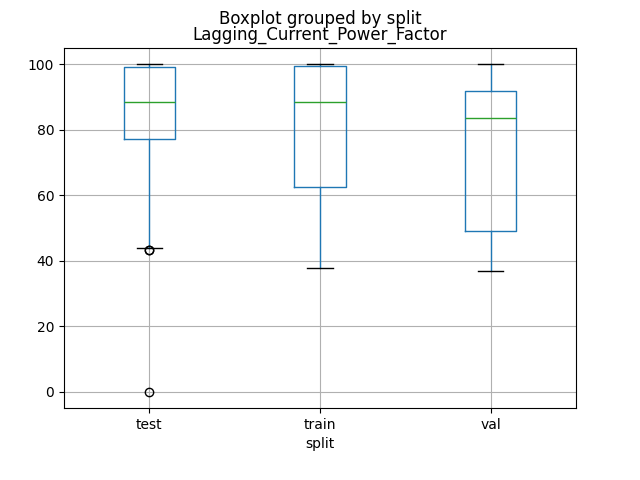
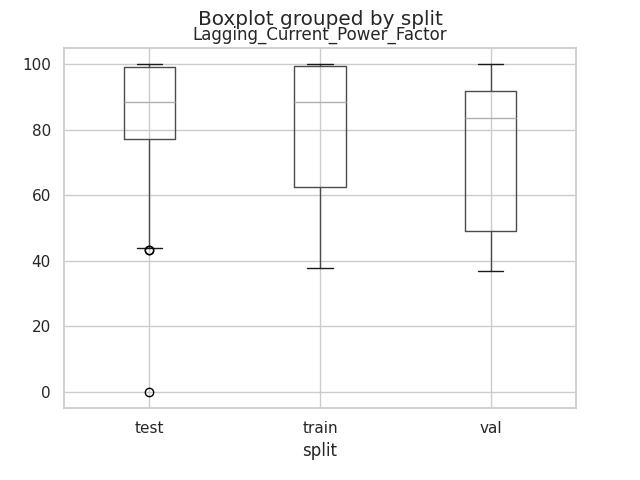
add: visualization .py Ahora hay graficas de todo JAJA matrices de confusión, roc comparativo, entre todos, y curva de aprendizaje de la red neuronal

diff --git a/src/evaluation/visualization.py b/src/evaluation/visualization.py
@@ -43,3 +43,114 @@ def graficar_matriz_confusion(y_true : np.ndarray,
 
     plt.savefig(ruta_archivo, dpi = DPI, bbox_inches = "tight")
     plt.close(fig)
+
+def graficar_curva_roc_multiclase(y_true: np.ndarray,
+                                  y_proba: np.ndarray,
+                                  nombres_clases: list[str],
+                                  titulo: str,
+                                  ruta_archivo: Path,
+                                 ) -> None:
+
+    clases = np.unique(y_true)
+    y_true_bin = label_binarize(y_true, classes=clases)
+
+    fig, ax = plt.subplots(figsize=FIGSIZE)
+
+    for i, nombre in enumerate(nombres_clases):
+        fpr, tpr, _ = roc_curve(y_true_bin[:, i], y_proba[:, i])
+        auc_clase = auc(fpr, tpr)
+        ax.plot(fpr, tpr, label=f"{nombre} (AUC = {auc_clase:.3f})")
+
+    ax.plot([0, 1], [0, 1], "k--", alpha=0.5, label="Aleatorio (AUC = 0.500)")
+
+    ax.set_xlabel("Tasa de Falsos Positivos")
+    ax.set_ylabel("Tasa de Verdaderos Positivos")
+    ax.set_title(titulo)
+    ax.legend(loc="lower right")
+    ax.set_xlim([0, 1])
+    ax.set_ylim([0, 1.02])
+    ax.grid(True, linestyle="--", alpha=0.6)
+
+    plt.tight_layout()
+    plt.savefig(ruta_archivo, dpi=300)
+    plt.close(fig)
+
+def graficar_curvas_aprendizaje(
+                                history: dict,
+                                ruta_archivo: Path,
+                                titulo: str = "Curvas de aprendizaje (MLP)",
+                                ) :
+    
+    fig, axes = plt.subplots(1, 2, figsize=(14, 5))
+
+    axes[0].plot(history["loss"], label="Train")
+    axes[0].plot(history["val_loss"], label="Validación")
+    axes[0].set_xlabel("Epoch")
+    axes[0].set_ylabel("Loss")
+    axes[0].set_title("Loss")
+    axes[0].grid(True, linestyle="--", alpha=0.6)
+    axes[0].legend()
+
+    axes[1].plot(history["accuracy"], label="Train")
+    axes[1].plot(history["val_accuracy"], label="Validación")
+    axes[1].set_xlabel("Epoch")
+    axes[1].set_ylabel("Accuracy")
+    axes[1].set_title("Accuracy")
+    axes[1].grid(True, linestyle="--", alpha=0.6)
+    axes[1].legend()
+
+    fig.suptitle(titulo, fontsize=14, fontweight="bold")
+    plt.tight_layout()
+
+    plt.savefig(ruta_archivo, dpi=300)
+    plt.close(fig)
+
+def graficar_roc_comparativa(
+                             modelos_y_probas: dict[str, tuple[np.ndarray, np.ndarray]],
+                             nombres_clases: list[str],
+                             ruta_archivo: Path,
+                            ) :
+    n_clases = len(nombres_clases)
+
+    # 1. Crear la figura base
+    fig, ax = plt.subplots(figsize=FIGSIZE)
+
+    for nombre, (y_true, y_proba) in modelos_y_probas.items():
+
+        clases_unicas = np.unique(y_true)
+        y_true_bin = label_binarize(y_true, classes=clases_unicas)
+
+        all_fpr = np.linspace(0, 1, 100)
+        mean_tpr = np.zeros_like(all_fpr)
+
+        for i in range(n_clases):
+            fpr, tpr, _ = roc_curve(y_true_bin[:, i], y_proba[:, i])
+            mean_tpr += np.interp(all_fpr, fpr, tpr)
+
+        mean_tpr /= n_clases
+        macro_auc = auc(all_fpr, mean_tpr)
+
+        ax.plot(
+            all_fpr,
+            mean_tpr,
+            label=f"{nombre} (AUC = {macro_auc:.3f})",
+            linewidth=2,
+        )
+
+    ax.plot([0, 1], [0, 1], "k--", alpha=0.5, label="Aleatorio (AUC = 0.500)")
+
+    ax.set_xlabel("Tasa de Falsos Positivos", fontsize=11)
+    ax.set_ylabel("Tasa de Verdaderos Positivos", fontsize=11)
+    ax.set_title(
+        "Curva ROC macro-promedio: comparativa entre modelos",
+        fontsize=13,
+        fontweight="bold",
+        pad=15,
+    )
+    ax.set_xlim([0.0, 1.0])
+    ax.set_ylim([0.0, 1.05])
+    ax.grid(True, linestyle="--", alpha=0.5)
+    ax.legend(loc="lower right", fontsize=10)
+
+    plt.savefig(ruta_archivo, dpi=DPI, bbox_inches="tight")
+    plt.close(fig)

diff --git a/main.py b/main.py
@@ -3,6 +3,7 @@ import src.data.preprocessor as preprocessor
 import src.data.splitter as splitter
 import src.features.engineering as engineering
 import src.evaluation.metrics as metrics
+import src.evaluation.visualization as visualization
 
 from src.models.base import BaseModel
 from src.models.svm_model import SVMmodel
@@ -78,6 +79,9 @@ def main():
     logreg.fit(caracteristicas_train_escalado, objetivo_train)
 
     metricas_todos = {}
+    probas_por_modelo = {}
+
+    nombres = list(mapeo_target.keys())
 
     for nombre, modelo in [("Dummy", dummy),("LogReg", logreg),("SVM", svm_model), ("MLP", mlp_model)]:
 
@@ -86,12 +90,30 @@ def main():
         objetivo_predict = modelo.predict(caracteristicas_test_escalado)
         objetivo_proba = modelo.predict_proba(caracteristicas_test_escalado)
 
-        metricas = metrics.calcular_metricas(objetivo_test.values, objetivo_predict, objetivo_proba, list(mapeo_target.keys()))
+        probas_por_modelo[nombre] = (objetivo_test.values, objetivo_proba)
+
+
+        metricas = metrics.calcular_metricas(objetivo_test.values, objetivo_predict, objetivo_proba, nombres)
         metrics.guardar_metricas(metricas, nombre, METRICS)
         metricas_todos[nombre] = metricas
 
-        #print(f"[Main] f1 report: {f1_score(objetivo_test, objetivo_predict, average = 'macro'):.4f}\n\n\n ")
-        #print(f"[Main] reporte:\n{classification_report(objetivo_test, objetivo_predict, target_names = mapeo_target.keys())} ")
+        visualization.graficar_matriz_confusion(objetivo_test.values,
+                                                objetivo_predict,
+                                                nombres,
+                                                f"matriz confusión - {nombre}",
+                                                FIGURES / f"matriz_confusion_{nombre}.png",
+                                                True)
+        visualization.graficar_curva_roc_multiclase(objetivo_test,
+                                                    objetivo_proba,
+                                                    nombres,
+                                                    f"Curva ROC OvR - {nombre}",
+                                                    FIGURES / f"roc_{nombre}.png"
+                                                    )
+    
+    visualization.graficar_roc_comparativa(probas_por_modelo, nombres, FIGURES / "roc_comparativa.png")
+    visualization.graficar_curvas_aprendizaje(mlp_model.history, FIGURES / "curvas_aprendizaje_mlp.png")
+
+
 
     metrics.imprimir_resumen_comparativo(metricas_todos)
     # Concatene los tres splits con una columna que diga cuál